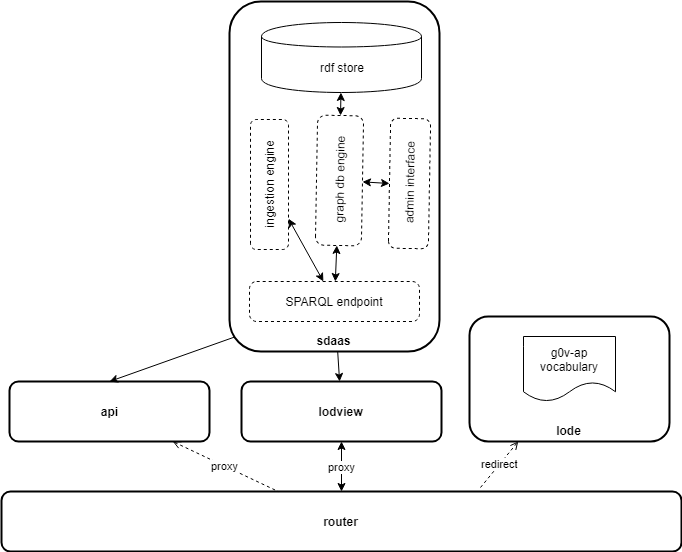
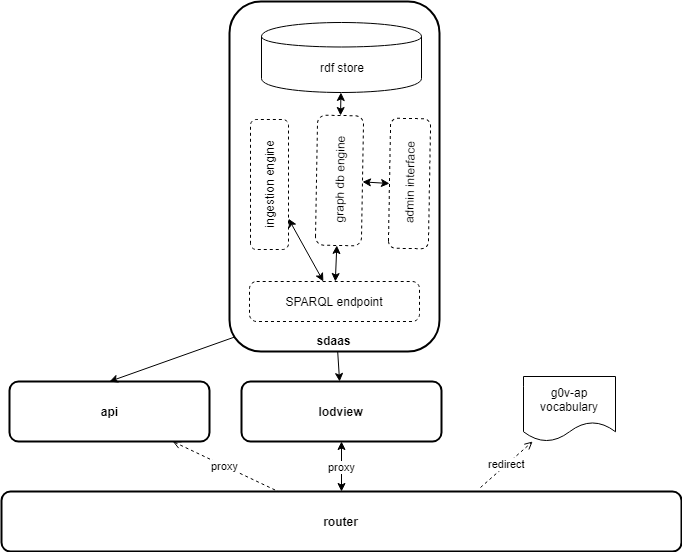
Removed lode docker

Changed region(s): [[0.6774, 0.5543, 0.9853, 0.8623]]

diff --git a/README.md b/README.md
@@ -8,10 +8,10 @@ This project aims to create a general smart data management platform to feed a b
 
 **Try it now:**
 
-- **json api**: http://data.budget.g0v.it/api/v1
+- **api**: http://data.budget.g0v.it/api/v1
 - **linked open data** viewer: http://data.budget.g0v.it/resource/welcome
-- **SPARQL endpoint**: http://data.budget.g0v.it/sdaas/sparql
-- **SPARQL interactive console**: http://data.budget.g0v.it:8889/sdaas/#query (based on Blazegraph workbench)
+- **SPARQL endpoint**: http://data.budget.g0v.it:8889/sdaas/#query
+
 
 ## Development
 
@@ -28,66 +28,100 @@ This picture shows the components interactions:
 ![architecture](doc/g0v-data-architecture.png)
 
 
-The full deploy of g0v-data requires a stack of four services (e.g. docker containers):
+The full deploy of g0v-data requires a stack of some services (e.g. docker containers):
 
 ![stack](doc/g0v-data-stack.png)
 
 g0v-data platform is shipped with a [Docker](https://docker.com) setup that makes it easy to get a containerized development
 environment up and running. If you do not already have Docker on your computer, [it's the right time to install it](https://docs.docker.com/install/).
 
-clone this project, open a terminal, and navigate to the directory of this repository. Run the following command to start all
-services using [Docker Compose](https://docs.docker.com/compose/):
+clone this project, open a terminal, and navigate to the directory of this repository. Run the following command 
 
-    $ docker-compose up -d # Running in detached mode
+	$ cp env.dist .env
 
-This starts the following services:
+edit .env file according your needs.Do not save the .env file in the repository.
 
-
-| Name        | Description                                                   | Port(s) | Environment(s)
-| ----------- | ------------------------------------------------------------- | ------- | --------------
-| router      | proxy cache server                                            | 80      | customize in prod 
-| sdaas       | a server that manages the datastore and the ingestion engine  | 8889    | all 
-| api         | a server that manages the web-budget api                      | 8081    | all
-| lodview     | a LODVIEW server to navigate linked data                      | 8082    | can use any other internet instance (change router config)
-| lode        | a server to render onology using LODE                         | 8083    | can use any other internet instance (change router config)
-
-The first time you start the containers, Docker downloads and builds images for you. It will take some time, but don't worry,
-this is done only once. Starting servers will then be lightning fast.
-
-To see the container's logs, run:
-
-    $ docker-compose logs -f # follow the logs
+To start all services using [Docker Compose](https://docs.docker.com/compose/) type `docker-compose up -d`
 
 
-### router entry points :
-
-The router acts a redirector and as a transparent proxy for all data management platform services. It provides following entry point:
-
-- **/** redirects to the project home page (this readme file)
-- **/api/** redirects to api documentation
-- **/api/v1/<api command>*** a reverse proxy to api server  ( e.g. http://localhost/api/accounts)
-- **/resource/<resource id>** redirects to linked data browser  (  e.g. http://localhost/resource/welcome)
-- **/g0v-ap/v1** pretty print of the g0v-ap vocabulary  
-- **/g0v-ap-api/v1** pretty print of the g0v-ap-api vocabulary  
-- **/sdaas/sparql**a reverse proxy to the sparql endpoint
+This starts the following services
 
 
-## Support
 
-For answers you may not find in here or in the Wiki, avoid posting issues. Feel free to ask for support on the [Slack](https://linkeddatacenter.slack.com/) general room. Make sure to mention **@enrico** so he is notified.
+| Name        | Description                                                   | Port(s) | Environment(s
 
-## Credits
+| ----------- | ------------------------------------------------------------- | ------- | -------------
 
+| router      | proxy cache server                                            | 80      | customize in prod
 
-- data extracted from by [OpenBDAP](https://bdap-opendata.mef.gov.it/) with CC-BY open licens
-- the RDF datastore and the SPARQL endpoint is based on the [Blazegraph community edition](https://www.blazegraph.com/)
-- the g0v-ap ontology and the smart data management platform was developed by [Enrico Fagnoni] (https://github.com/ecow) using the [SDaaS platform by LinkedData.Center](http://LinkedData.Center/)
-- API server and gateways was developed by [Yassine Ouahidi](https://github.com/YassineOuahidi)
-- [LOD-VIEW](http://lodview.it/) was developed by [Diego Valerio Camarda](https://www.linkedin.com/in/dvcama) and [Alessandro Antonuccio](http://hstudio.it/).
+| sdaas       | a server that manages the datastore and the ingestion engine  | 8889    | all
 
-Thanks to all project contributors, to the [Copernicani community](https://copernicani.it/) and to the [g0v asia community](http://g0v.asia) for ideas and support.
+| api         | a server that manages the web-budget api                      | 8081    | al
+
+| lodview     | a LODVIEW server to navigate linked data                      | 8082    | can use any other internet instance (change router config
 
 
-## License
+The first time you start the containers, Docker downloads and builds images for you. It will take some time, but don't worry
 
-The MIT License (MIT). Please see [License File](LICENSE) for more information.
+this is done only once. Starting servers will then be lightning fast
+
+
+To see the container's logs, run
+
+
+    $ docker-compose logs -f # follow the log
+
+
+
+### router entry points 
+
+
+The router acts a redirector and as a transparent proxy for all da management platform services. It provides following entry point
+
+
+- **/** redirects to the project home page (this readme file fro now
+
+- **/api/** redirects to api documentatio
+
+- **/api/v1/<api command>*** redirects to api command  ( try http://localhost/api/accounts
+
+- **/resource/<resource id>** calls the linked data browser  ( try http://localhost/resource/welcome
+
+- **/g0v-ap/v1** redirects to the g0v-ap vocabulary  ( try http://localhost/g0v-ap/v1
+
+- **/g0v-ap-api/v1** redirects to  the g0v-ap-api vocabulary  ( try http://localhost/g0v-ap-api/v1
+
+- **/sdaas/sparql** redirects to sparql endpoint  ( try http://localhost/sdaas/sparql
+
+
+
+## Suppor
+
+
+For answers you may not find in here or in the Wiki, avoid posting issues. Feel free to ask for support on the [Slack](https://linkeddatacenter.slack.com/) general room. Make sure to mention **@enrico** so he is notified
+
+
+## Credit
+
+
+
+- data extracted from by [OpenBDAP](https://bdap-opendata.mef.gov.it/) with CC-BY open licen
+
+- the RDF datastore and the SPARQL endpoint is based on the [Blazegraph community edition](https://www.blazegraph.com/
+
+- the g0v-ap ontology and the smart data management platform was developed by [Enrico Fagnoni] (https://github.com/ecow) using the [SDaaS platform by LinkedData.Center](http://LinkedData.Center/
+
+- API server and gateways was developed by [Yassine Ouahidi](https://github.com/YassineOuahidi
+
+- [LOD-VIEW](http://lodview.it/) was developed by [Diego Valerio Camarda](https://www.linkedin.com/in/dvcama) and [Alessandro Antonuccio](http://hstudio.it/)
+
+
+Thanks to all project contributors, to the [Copernicani community](https://copernicani.it/) and to the [g0v asia community](http://g0v.asia) for ideas and support
+
+
+
+## Licens
+
+
+The MIT License (MIT). Please see [License File](LICENSE) for more information
+

diff --git a/g0v-ap/README.md b/g0v-ap/README.md
@@ -135,14 +135,11 @@ docker run --name blazegraph -d -p 9999:8080 lyrasis/blazegraph:2.1.4
 5. Try SPARQL queries in examples directory
 
 
-## Generating g0v-ap ontology documentation on-the-fly
+## Generating g0v-ap ontology html documentation on-the-fly
 
-Here find a container to run a [lode server](https://github.com/essepuntato/LODE) to generate human readable document for g0v-ap ontology.
+Point your browser to:
  
-```	
-docker build . -t lode
-docker run -d -v g0v-ap.owl:/lode/LODE-master/src/main/webapp/g0v-ap.owl --name lode -p 9090:8080 lode
-```
+- [HTML rendering of g0v-ap ontology](http://www.essepuntato.it/lode/https://raw.githubusercontent.com/g0v-it/data-budget/master/g0v-ap/g0v-ap.owl)
+[HTML rendering of g0v-ap-api ontology](http://www.essepuntato.it/lode/https://raw.githubusercontent.com/g0v-it/data-budget/master/g0v-ap/examples/g0v-ap-api.owl)
 
-Point your browser to http://localhost:9090/lode/extract?url=localhost:8080/lode/g0v-ap.owl
-
+See the the Dockerfile the doc directory for to create a standalone lode server.
